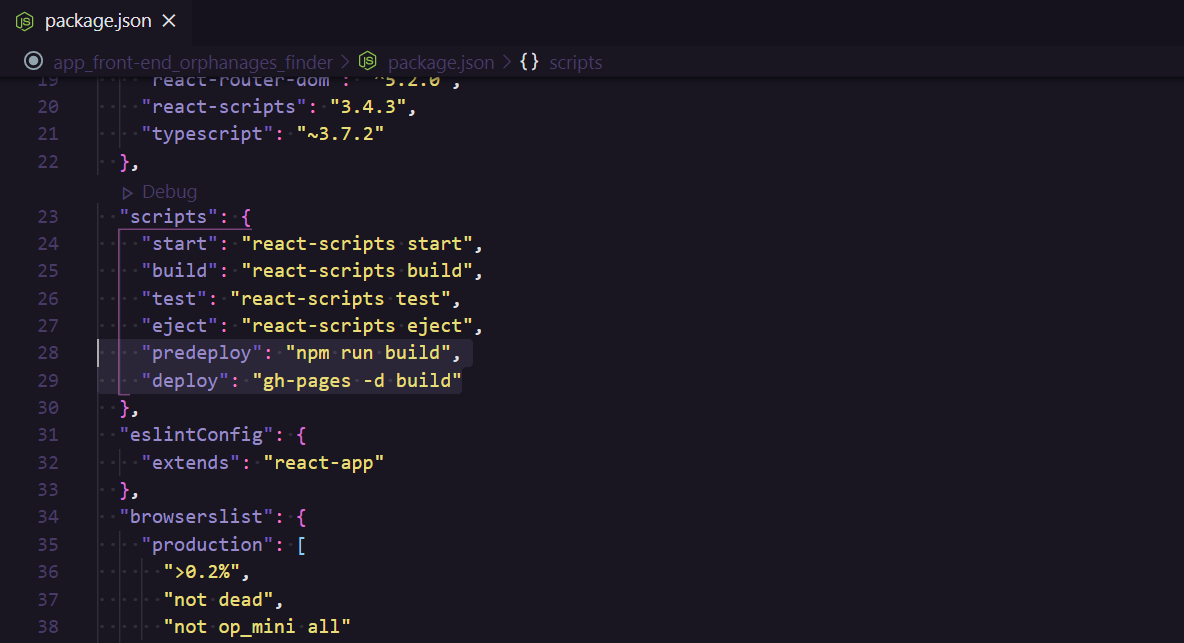
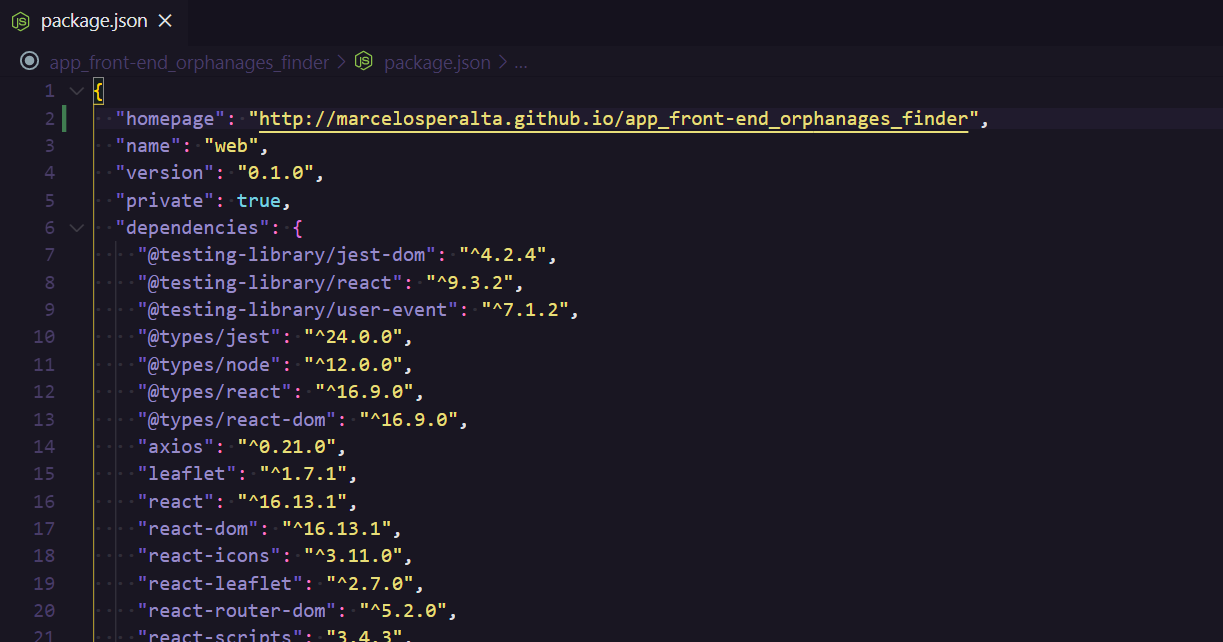
rocketseat

Changed region(s): [[0.0, 0.0, 0.8125, 1.0]]

diff --git a/README.md b/README.md
@@ -162,11 +162,13 @@ yarn add @types/react-leaflet -D
 npm install gh-pages --save-dev
 ```
 
-:black_medium_small_square: **_add properties to ```package.json``` file.:_**  
+:black_medium_small_square: **_add to ```package.json``` file at the top level the property below:_**  
 
 ```
-"homepage": "http://yuribenjamin.github.io/app_front-end_orphanages_finder"
+"homepage": "http://marcelosperalta.github.io/app_front-end_orphanages_finder",
 ```
+
+![package.json](./readme/screenshot_web_03_package_json.png)
 
 :black_medium_small_square: **_in the existing scripts property we to need to add ```predeploy``` and ```deploy```:_**  
 
@@ -178,7 +180,7 @@ npm install gh-pages --save-dev
 }
 ```
 
-![package.json](./readme/screenshot_web_03_package_json.png)
+![package.json](./readme/screenshot_web_04_package_json.png)
 
 :black_medium_small_square: **_deploy it to GitHub Pages:_**  
 
